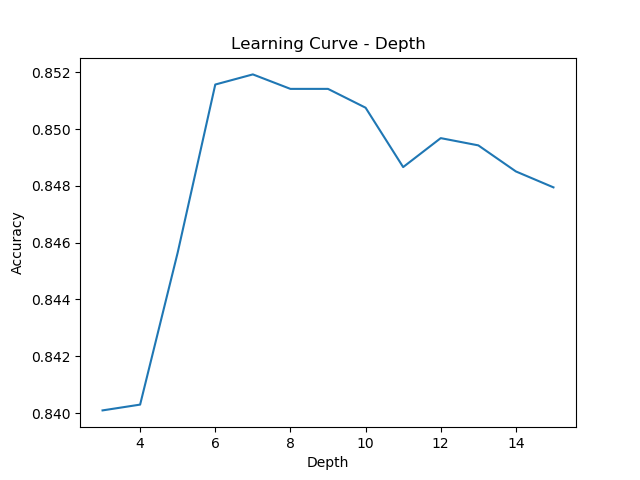
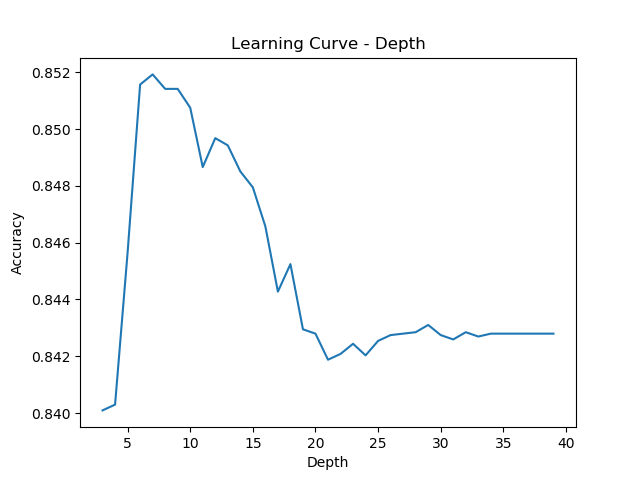
max iter curve

diff --git a/solution/classifiers/census_decision_tree.py b/solution/classifiers/census_decision_tree.py
@@ -24,6 +24,7 @@ import numpy as np
 from sklearn.model_selection import KFold, train_test_split
 from sklearn.tree import DecisionTreeClassifier
 from sklearn.model_selection import GridSearchCV
+from sklearn.metrics import accuracy_score
 
 from solution.classifiers import helpers
 from solution.preprocessors.data_loader import CensusDataLoader
@@ -50,7 +51,8 @@ derived_feature_columns = [
 df = pd.read_csv(os.path.join(DATA_PATH, CSV_FILENAME))
 df = CensusDataLoader(df).apply_pipeline()
 
-# These are subject to change based on preprocessing
+# TODO: add non-pruned results
+# These are subject to change based on pre-processing
 feature_cols = ['age_num', 'education-num', 'marital-status_Single',
                 'hours-per-week', 'capital-gain',
                 'capital-loss', 'sex_Male', 'from_united_states']
@@ -83,11 +85,28 @@ helpers.plot_learning_curve_vs_param(
     param_grid={
         'random_state': [0],
         'criterion': ['entropy'],
-        'max_depth': range(3, 16),
+        'max_depth': range(3, 40),
     },
     cv=5,
     measure_type='mean_test_score',
-    output_location='census_output/depth_learning_curve.png'
+    output_location='census_output/depth_learning_curve.png',
+    param_range=list(range(3, 40))
+)
+
+helpers.plot_learning_curve_vs_param(
+    tree_cls,
+    x_train,
+    y_train,
+    param_grid={
+        'random_state': [0],
+        'criterion': ['entropy'],
+        'max_leaf_nodes': range(5, 100),
+    },
+    cv=5,
+    measure_type='mean_test_score',
+    output_location='census_output/dt_leaf_nodes_learning_curve.png',
+    param_range=list(range(5, 100)),
+    param_name='Max Leaf Nodes'
 )
 
 # Find the best model via GridSearchCV
@@ -97,10 +116,22 @@ grid_search = GridSearchCV(
         'random_state': [0],
         'criterion': ['entropy'],
         'max_depth': range(3, 16),
-        'max_leaf_nodes': range(5, 17),
+        'max_leaf_nodes': range(5, 22),
     },
     cv=kfold
 )
+
+with open(r'./census_output/dt_no_cv_accuracy.txt', 'w') as no_cv_accuracy:
+    for i in range(3, 20):
+        clf = DecisionTreeClassifier(random_state=0, max_depth=i, criterion='entropy')
+
+        clf.fit(x_train, y_train)
+        y_train_pred = clf.predict(x_train)
+        y_predict = clf.predict(x_test)
+
+        no_cv_accuracy.write('Depth: %s, ' % i)
+        no_cv_accuracy.write('Train Accuracy: %s, ' % accuracy_score(y_train, y_train_pred))
+        no_cv_accuracy.write('Test Accuracy: %s \n' % accuracy_score(y_test, y_predict))
 
 grid_search.fit(x_train, y_train)
 
@@ -114,7 +145,7 @@ start = timeit.default_timer()
 best_model.fit(x_train, y_train)
 end = timeit.default_timer()
 print('Time to fit:', end-start)
-helpers.log_fit_time('WINE_NN', end-start)
+helpers.log_fit_time('CENSUS_DT', end-start)
 
 # Export decision tree to graphviz png
 helpers.export_decision_tree_to_file(

diff --git a/solution/classifiers/helpers.py b/solution/classifiers/helpers.py
@@ -35,8 +35,11 @@ def timer(func):
         end = timeit.default_timer()
         with open('times.txt', 'a') as time_results:
             time_results.write('Originating Classifier: ' +
-                               str(os.path.basename(
-                                   os.path.realpath(inspect.getfile(inspect.stack()[parent_idx][0])))) + '\n')
+                               str(
+                                   os.path.basename(
+                                       os.path.realpath(
+                                           inspect.getfile(
+                                               inspect.stack()[parent_idx][0])))) + '\n')
             time_results.write(
                 '\tOriginating method: ' + str(func.__name__) + ' took ' + str(end - start) + ' seconds\n')
         print(func.__name__, 'Elapsed', end - start)

diff --git a/solution/classifiers/census_neural_network.py b/solution/classifiers/census_neural_network.py
@@ -102,7 +102,7 @@ start = timeit.default_timer()
 best_model.fit(x_train, y_train)
 end = timeit.default_timer()
 print('Time to fit:', end-start)
-helpers.log_fit_time('WINE_NN', end-start)
+helpers.log_fit_time('CENSUS_NN', end-start)
 
 # Predict income with the trained best model
 y_pred = best_model.predict(x_test)

diff --git a/solution/classifiers/wine_decision_tree.py b/solution/classifiers/wine_decision_tree.py
@@ -87,7 +87,7 @@ start = timeit.default_timer()
 best_model.fit(x_train, y_train)
 end = timeit.default_timer()
 print('Time to fit:', end-start)
-helpers.log_fit_time('WINE_NN', end-start)
+helpers.log_fit_time('WINE_DT', end-start)
 
 # Export decision tree to graphviz png
 helpers.export_decision_tree_to_file(
